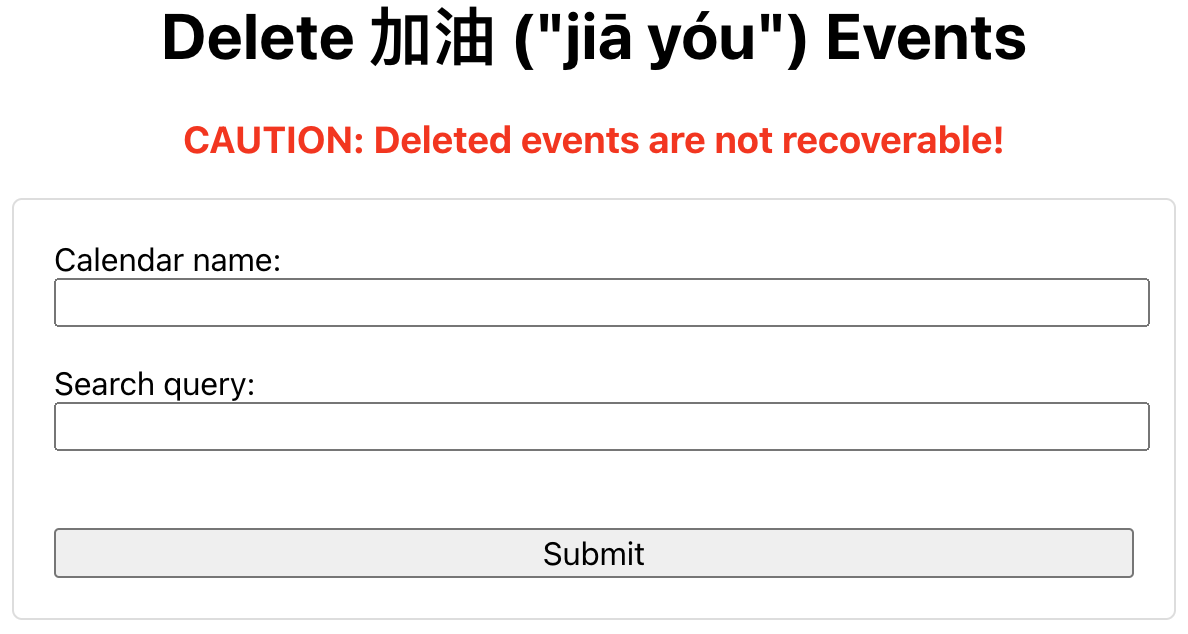
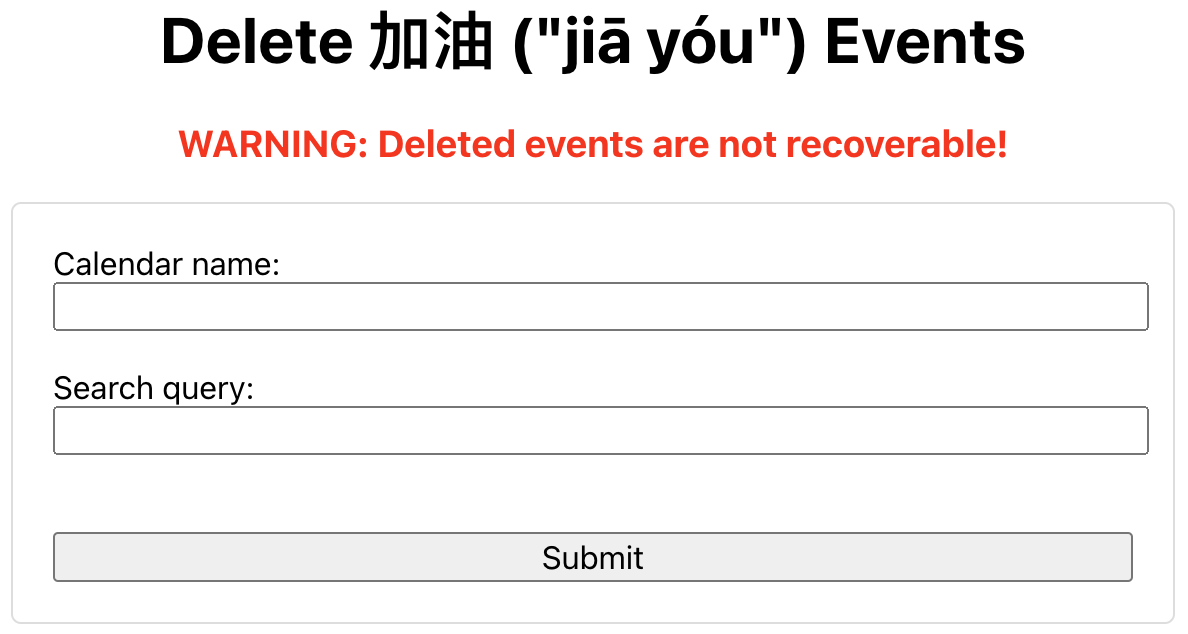
changed caution to warning

diff --git a/Index.html b/Index.html
@@ -30,7 +30,7 @@
   </head>
   <body>
     <h1><center>Delete 加油 ("jiā yóu") Events</center></h1>
-    <h3><center><font style="color: red;">CAUTION: Deleted events are not recoverable!</font></center></h3>
+    <h3><center><font style="color: red;">WARNING: Deleted events are not recoverable!</font></center></h3>
     <form id="calendarForm">
       <label for="calendarName">Calendar name:</label>
       <input type="text" id="calendarName" name="calendarName" required>
